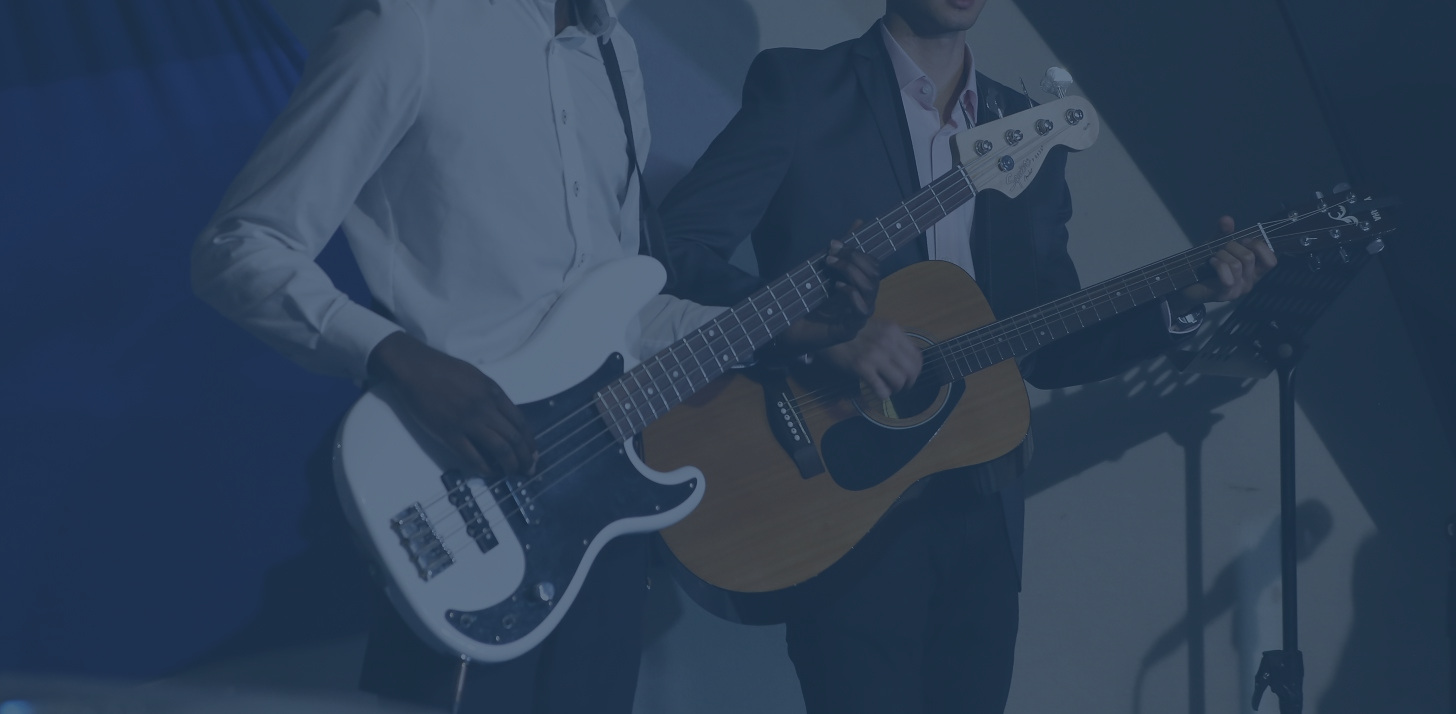
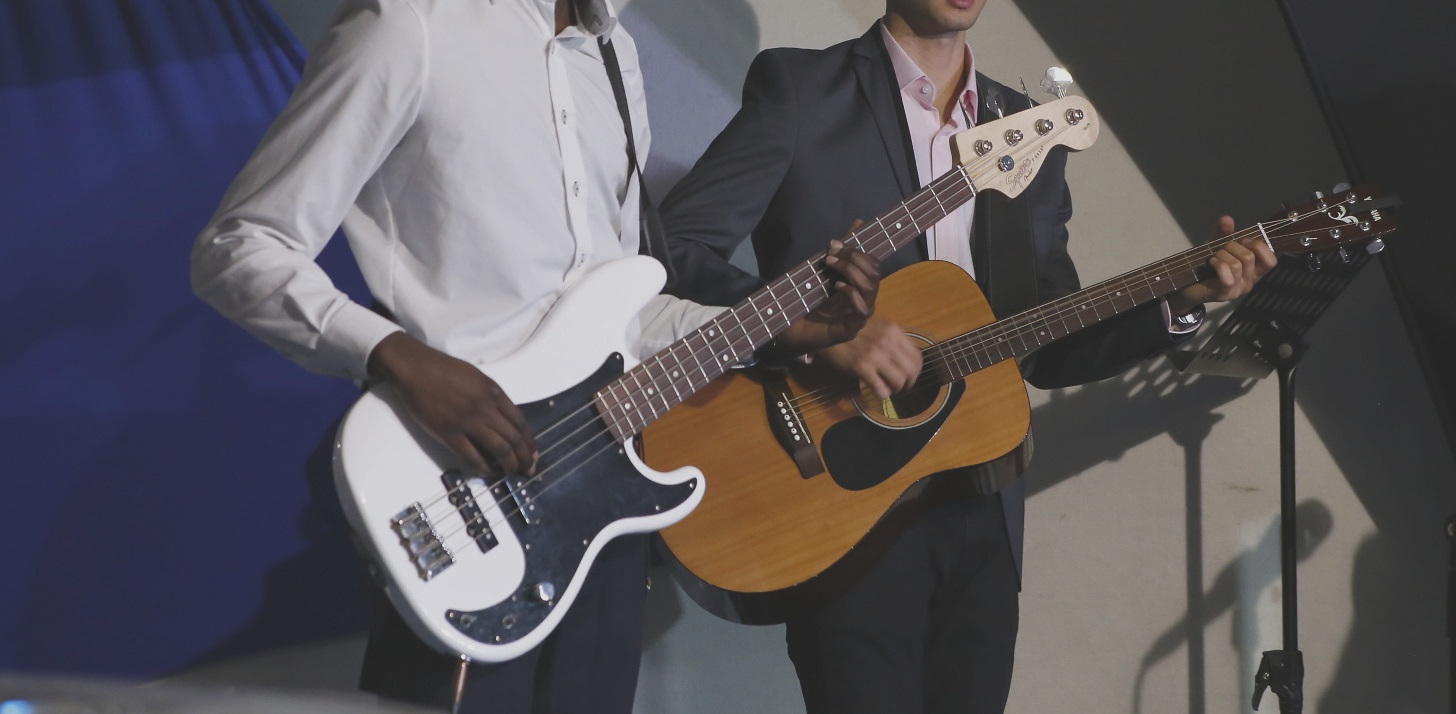
fixed background tile musikschule

diff --git a/css/master.css b/css/master.css
@@ -236,7 +236,7 @@ section#tile_third_one {
 }
 section#tile_third_center {
   background-color: #5BB1FC;
-  background-image: url('../img/musicschool/musicschool.JPG');
+  background-image: url('../img/musicschool/musicschool2.JPG');
   background-position: center;
   top: -20em;
   left: 33.33%;
@@ -254,7 +254,6 @@ section#tile_third_two {
 section h1 {
   margin-top: 0.5em;
 }
-
 /*Fonts*/
 @font-face {
   font-family: "VivaBeautiful";
